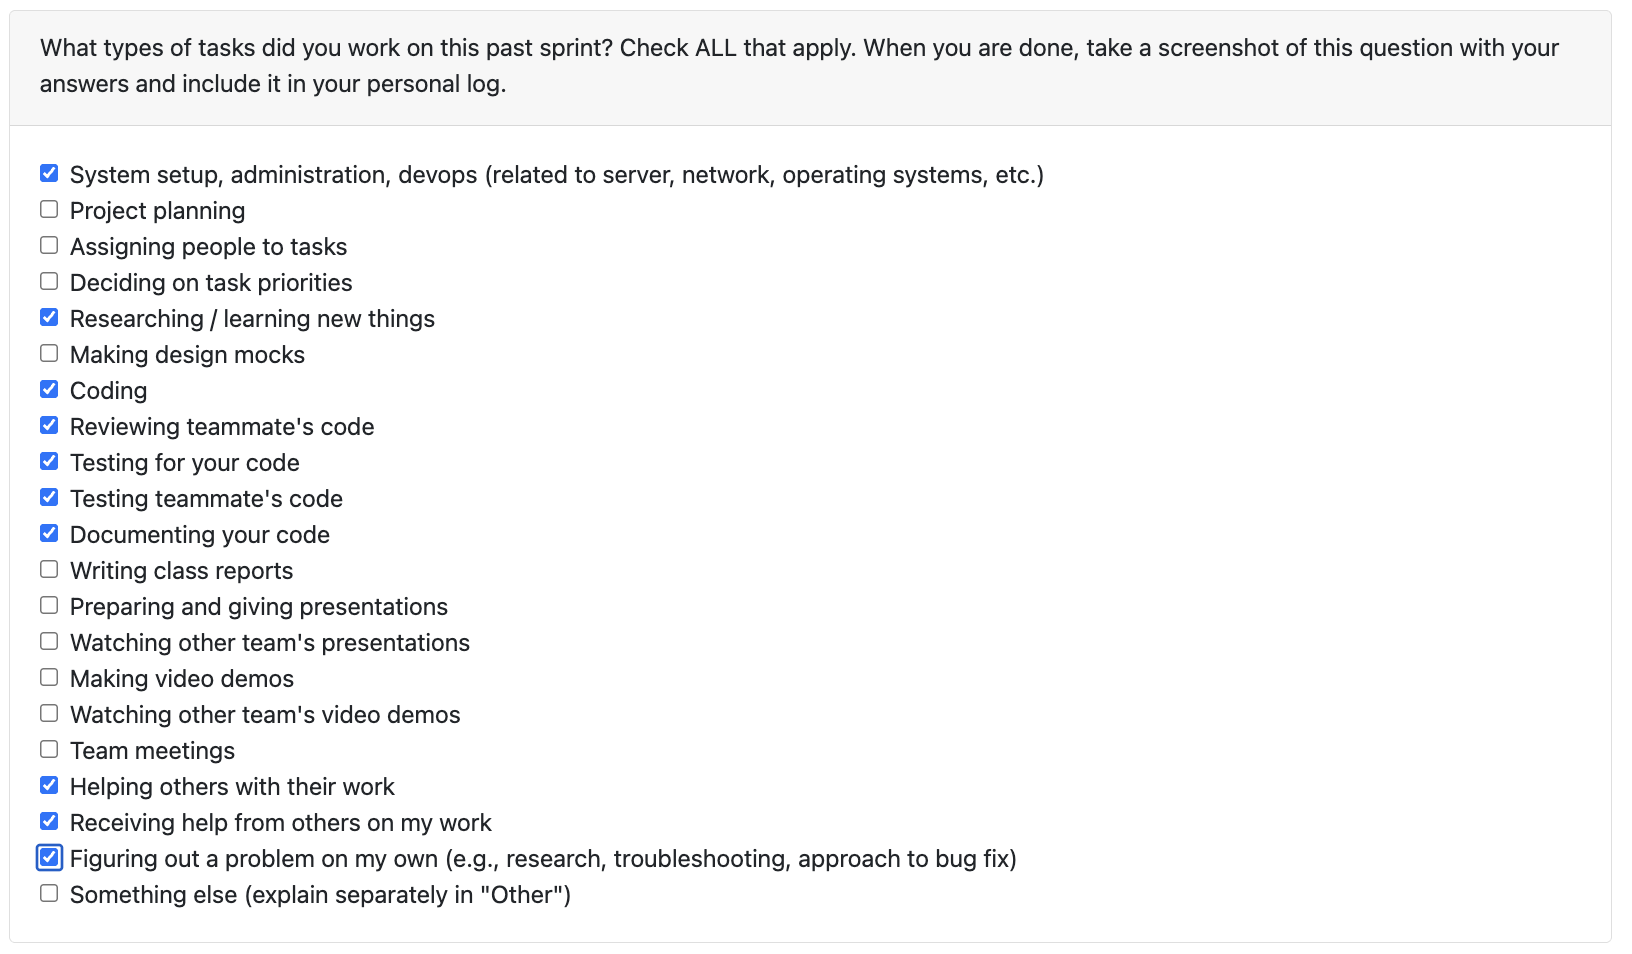
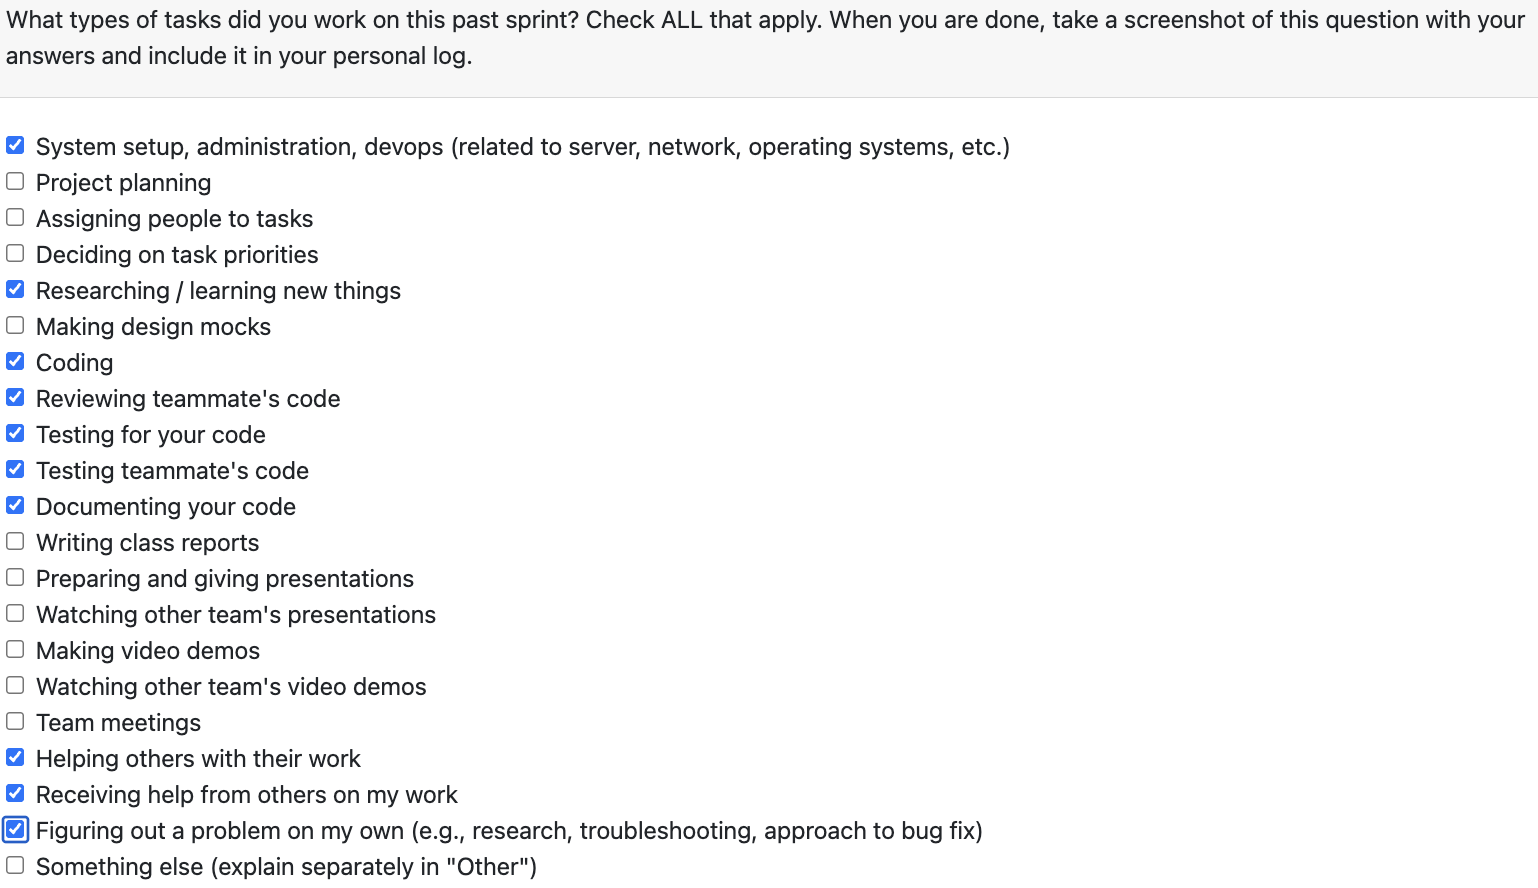
WT week12 logs

Changed region(s): [[0.0, 0.152, 0.6554, 1.0], [0.0, 0.0, 0.9987, 0.1216]]

diff --git a/logs/individual/Will_Tilden.md b/logs/individual/Will_Tilden.md
@@ -1,4 +1,4 @@
-# Personal log of Will Tilden (from Week 12) as per the personal log format outlined in lecture slides
+# Personal logs of Will Tilden (from Week 12) as per the personal log format outlined in lecture slides
 
 ## Applicable date range
 - Monday, November 17th to Sunday, November 23rd